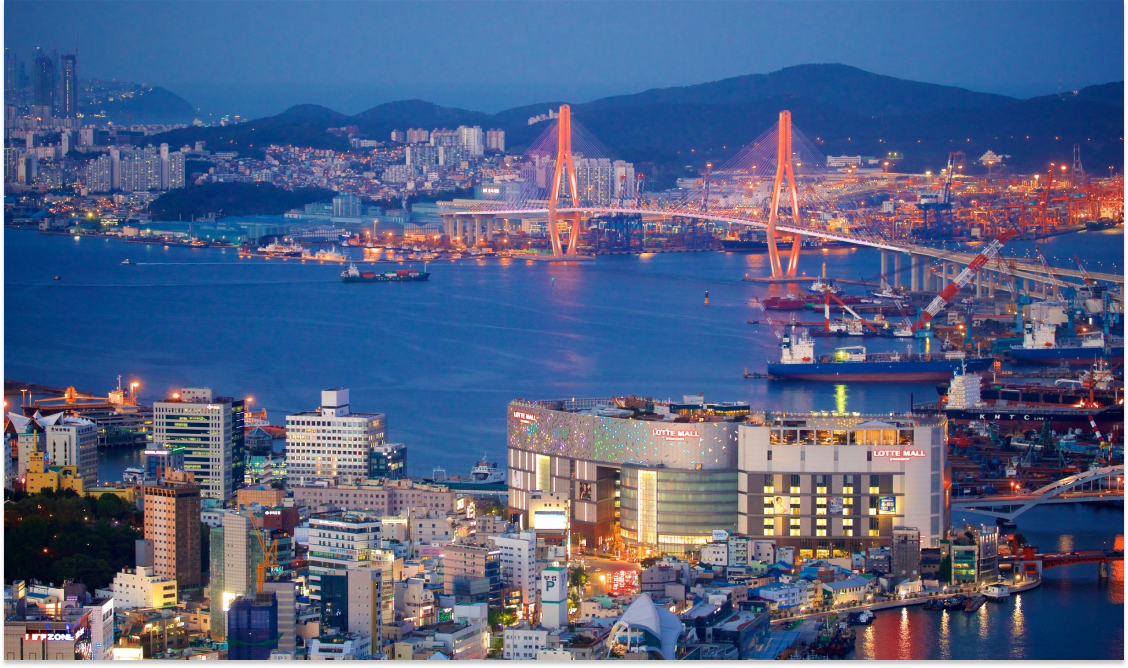
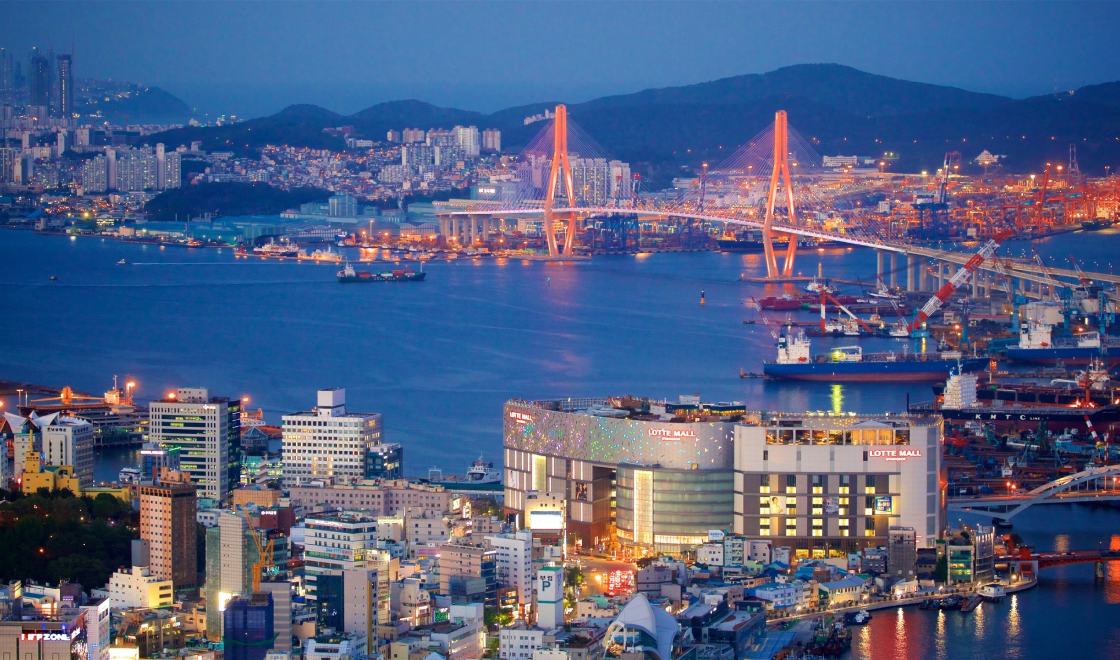
alinhamento e espaçamento da página

diff --git a/index.html b/index.html
@@ -19,10 +19,12 @@
     </header>
     <main>
       <hr>
-      <h4 class="headline">Para os amantes de história</h4>
-      <h2>Descubra 3 destinos imperdíveis em Busan</h2>
-      <p>As atrações de Busan vão desde templos budistas centenários que pontilham as montanhas e o litoral da cidade até praias imaculadas com águas cristalinas. Esta cidade litorânea tem muitas coisas para fazer o ano todo - as famílias podem passar o tempo em um aquário à beira-mar, os compradores podem explorar bairros vibrantes e os amantes da natureza podem desfrutar de longas caminhadas até mirantes panorâmicos.
-      Os santuários budistas que pontilham a costa e as montanhas de Busan têm uma arquitetura impressionante que irá encantar os fotógrafos.</p>
+      <section class="cardTravel presentationCardTravel">
+        <h4 class="headline">Para os amantes de história</h4>
+        <h2>Descubra 3 destinos imperdíveis em Busan</h2>
+        <p>As atrações de Busan vão desde templos budistas centenários que pontilham as montanhas e o litoral da cidade até praias imaculadas com águas cristalinas. Esta cidade litorânea tem muitas coisas para fazer o ano todo - as famílias podem passar o tempo em um aquário à beira-mar, os compradores podem explorar bairros vibrantes e os amantes da natureza podem desfrutar de longas caminhadas até mirantes panorâmicos.
+        Os santuários budistas que pontilham a costa e as montanhas de Busan têm uma arquitetura impressionante que irá encantar os fotógrafos.</p>
+      </section>
       <section class="cardTravel cardTraveln1">
           <img src="images/image2.png" alt="Templo Haedong Yonggungsa">
           <h3>1. Templo Haedong Yonggungsa</h3>

diff --git a/style.css b/style.css
@@ -1,13 +1,54 @@
+*{
+  /* border: solid 1px; */
+  margin: 0;
+}
+
+body{
+  background-color: #F5F4F0;
+}
+
 #container{
   font-family: "Open Sans", sans-serif;
   font-size: 16px;
   color: #333333;
+  box-sizing: border-box;
+  width: 1120px;
+  margin: 88px auto 65px;
+}
+
+header img{
+  margin-bottom: 24px;
 }
 
 header p{
   font-style: italic;
   text-align: center;
 }
+
+.presentationCardTravel p{
+  margin-bottom: 64px;
+}
+
+#container img{
+  border-radius: 28px;
+  width: 1120px; 
+  margin-bottom: 20px;
+}
+
+hr{
+  height: 0;
+  color: #D9D9D9;
+  margin-top: 40px;
+  margin-bottom: 40px;
+ 
+}
+
+main .headline{
+  margin-top: 24px;
+  margin-bottom: 2px;
+}
+
+
 
 .headline{
   color: #E1624F;
@@ -17,29 +58,43 @@ header p{
   font-weight: bold;
 }
 
+
 h1{
   font-size: 36px;
+  margin-top: 8px;
+  margin-bottom: 40px;
 }
 h2{
   font-size: 32px;
+  margin-bottom: 8px;
+    
 }
 h3{
   font-size: 28px;
+  margin-bottom: 4px;
 }
 
 h1, h2, h3{
   color: #1B1B1B;
 }
 
+ul{
+  font-weight: bold;
+  padding: 20px;
+  
+}
+
+.cardTraveln2{
+  margin-top: 48px;
+  margin-bottom: 48px;
+}
+
 .cardTravel ul li::marker{
   color: #333333;
 }
+
 .cardTraveln1 ul,.cardTraveln2 ul{
   color: #0C51A7;
-}
-
-ul{
-  font-weight: bold;
 }
 
 .cardTraveln3 ul li:first-child{
@@ -54,4 +109,14 @@ ul{
 
 #finalRemarks{
   text-align: center;
+}
+
+footer{
+  font-size: 16px;
+  color: #333333;
+  margin-bottom: 48px;
+  text-align: center;
+}
+footer img{
+  vertical-align: middle;
 }
